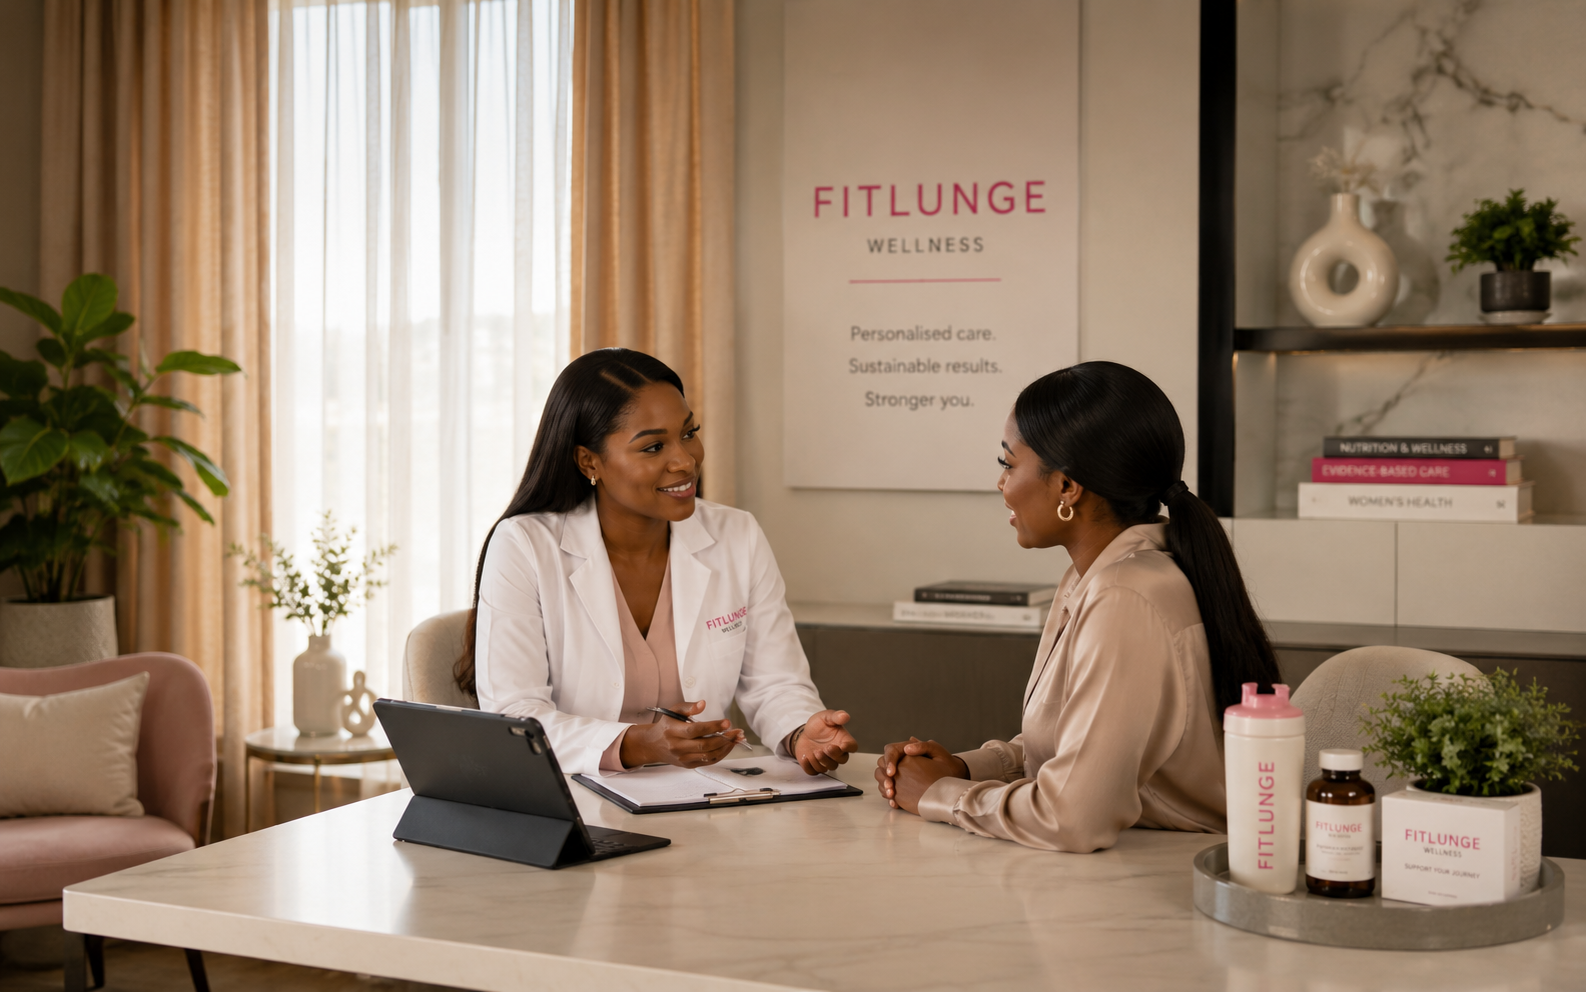
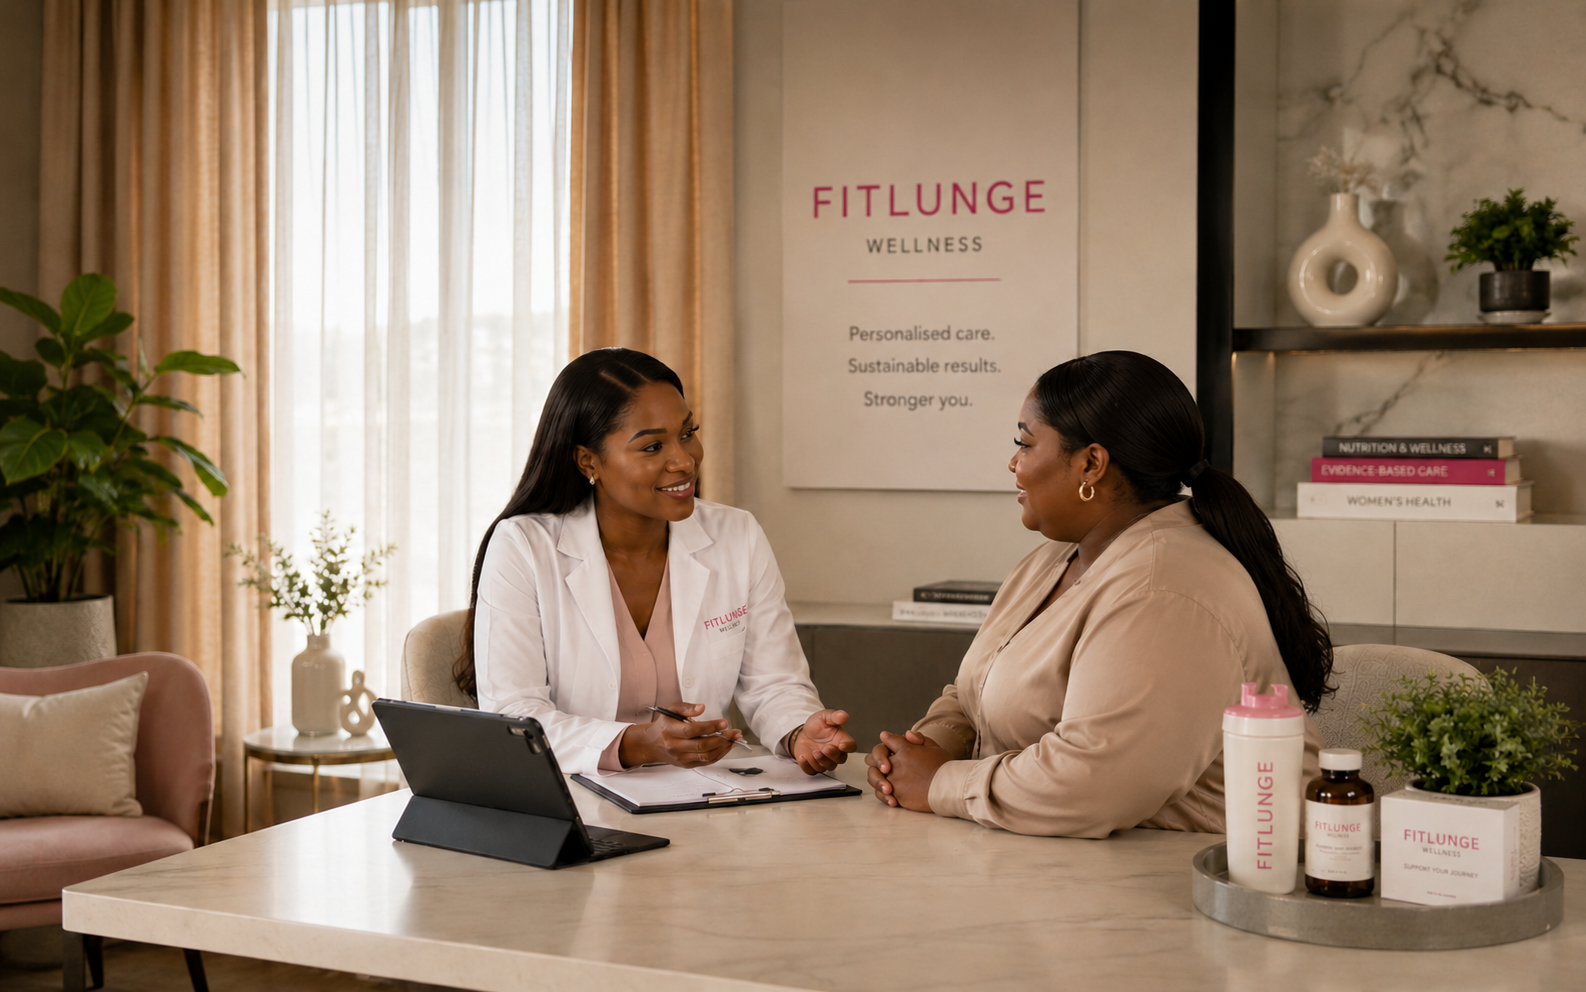
Trim hero subhead copy, swap hero image to new FitLunge consultation photo

diff --git a/index.html b/index.html
@@ -34,7 +34,7 @@
           <div class="hero-copy">
             <span class="hero-eyebrow">Doctor-Led Weight Management for Women</span>
             <h1>You don&rsquo;t need another&nbsp;diet.<br>You need a plan that understands your body.</h1>
-            <p>FitLunge gives you what most weight-loss journeys miss &mdash; medical guidance, a personalized strategy, and someone keeping you accountable. Led by doctors who know sustainable weight management is about more than eating less and moving more.</p>
+            <p>FitLunge gives you what most weight-loss journeys miss &mdash; medical guidance, a personalized strategy, and someone keeping you accountable.</p>
             <div class="hero-actions">
               <a href="#footer-cta" class="eyebrow-btn btn-light hero-primary-cta">Start With a Doctor &mdash; &#8358;40,000</a>
               <a href="#journey" class="hero-secondary-link">See How FitLunge Works &darr;</a>
